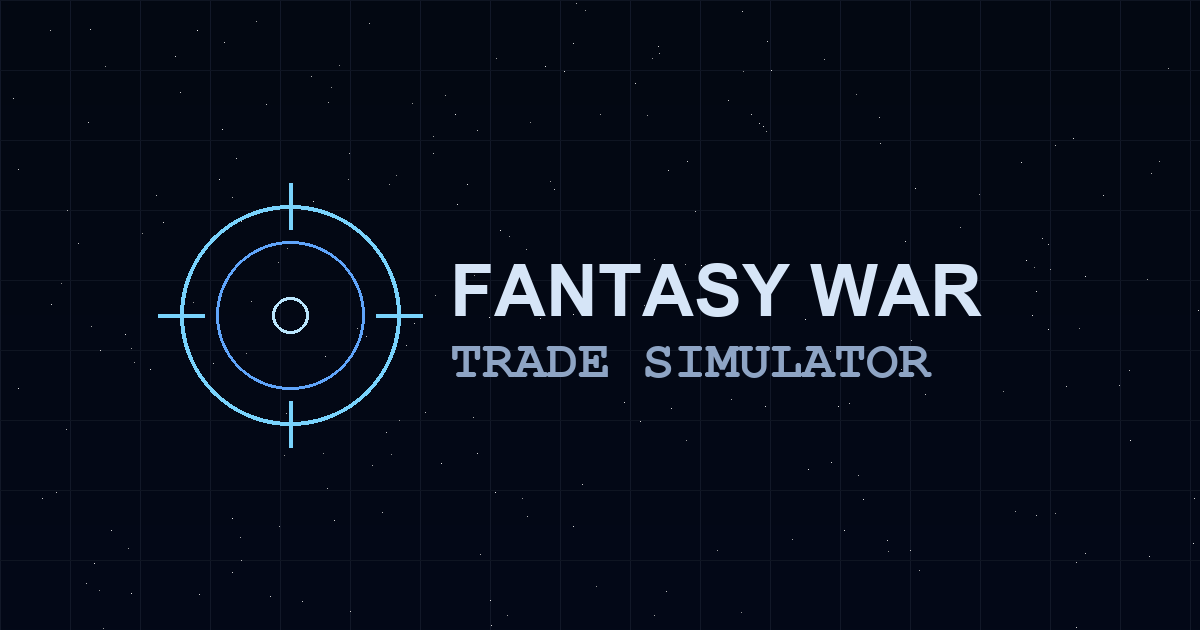
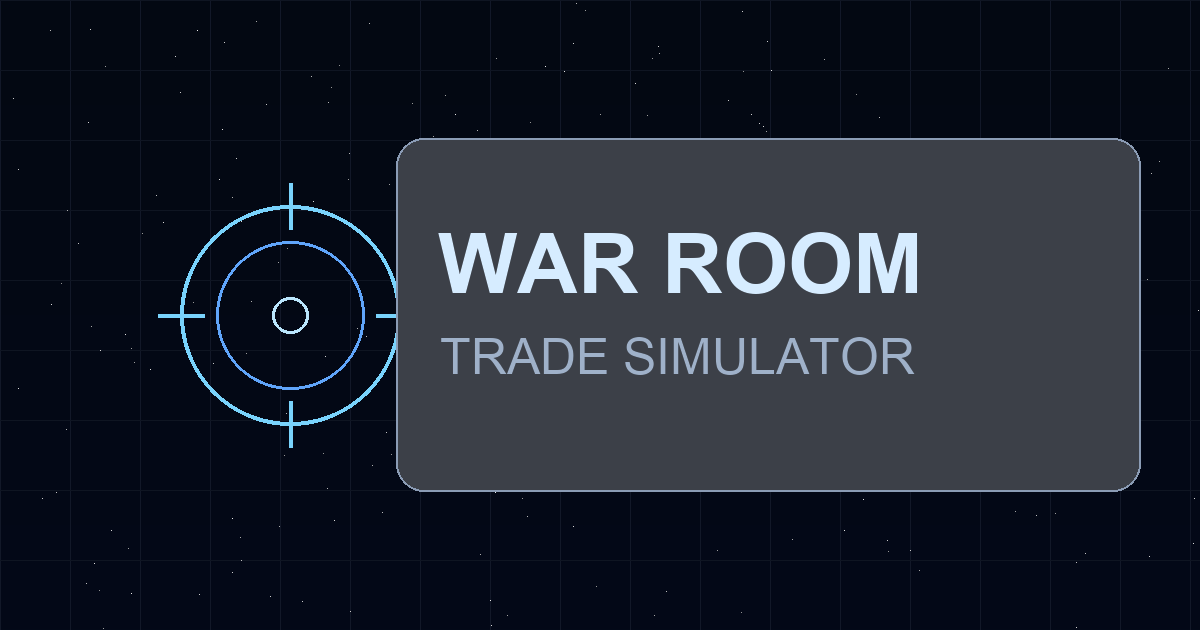
Rename brand to War Room across UI and share preview

diff --git a/index.html b/index.html
@@ -3,19 +3,19 @@
 <head>
   <meta charset="UTF-8" />
   <meta name="viewport" content="width=device-width, initial-scale=1.0" />
-  <title>Fantasy War — Trade Simulator</title>
-  <meta name="description" content="Fantasy War Trade Simulator. Simulate strikes across the Middle East and watch market impact in real time." />
+  <title>War Room — Trade Simulator</title>
+  <meta name="description" content="War Room Trade Simulator. Simulate strikes across the Middle East and watch market impact in real time." />
   <link rel="canonical" href="https://strikeonmybags.xyz/" />
   <link rel="icon" type="image/gif" href="/assets/explosion-pixel.gif" />
   <link rel="icon" type="image/png" href="/assets/favicon-reticle.png" />
   <link rel="apple-touch-icon" href="/assets/favicon-reticle.png" />
   <meta property="og:type" content="website" />
-  <meta property="og:title" content="Fantasy War — Trade Simulator" />
+  <meta property="og:title" content="War Room — Trade Simulator" />
   <meta property="og:description" content="Simulate strikes across the Middle East and track market impact." />
   <meta property="og:url" content="https://strikeonmybags.xyz/" />
   <meta property="og:image" content="https://strikeonmybags.xyz/assets/share-preview.png" />
   <meta name="twitter:card" content="summary_large_image" />
-  <meta name="twitter:title" content="Fantasy War — Trade Simulator" />
+  <meta name="twitter:title" content="War Room — Trade Simulator" />
   <meta name="twitter:description" content="Simulate strikes across the Middle East and track market impact." />
   <meta name="twitter:image" content="https://strikeonmybags.xyz/assets/share-preview.png" />
   <link rel="preconnect" href="https://fonts.googleapis.com" />
@@ -2390,7 +2390,7 @@
     <div class="intro" id="introScreen">
       <div class="intro-card">
         <img class="intro-icon" src="/assets/intro-timebomb.png" alt="" aria-hidden="true" />
-        <h2>Welcome to Fantasy War</h2>
+        <h2>Welcome to War Room</h2>
         <p>You are now the GM of War. Simulate strikes across the middle east to see how they impact trade.</p>
         <button id="enterSim"><img class="intro-btn-reticle" src="/assets/favicon-reticle.png" alt="" aria-hidden="true" />Drop Your Load</button>
         <div class="intro-disclaimer">
@@ -2497,11 +2497,11 @@
     <div class="hud-throttle" id="hudThrottle"></div>
     <div class="hud-horizon"></div>
     <div class="title-block">
-      Fantasy War
+      War Room
       <span>Trade Simulator</span>
     </div>
     <div class="mobile-title-block">
-      Fantasy War
+      War Room
       <span>Trade Simulator</span>
     </div>
   </div>
@@ -3756,7 +3756,7 @@
       shareSim.addEventListener("click", async () => {
         const shareUrl = window.location.href || APP_URL;
         const payload = {
-          title: "Fantasy War — Trade Simulator",
+          title: "War Room — Trade Simulator",
           text: "Simulate strikes and track market impact.",
           url: shareUrl
         };
